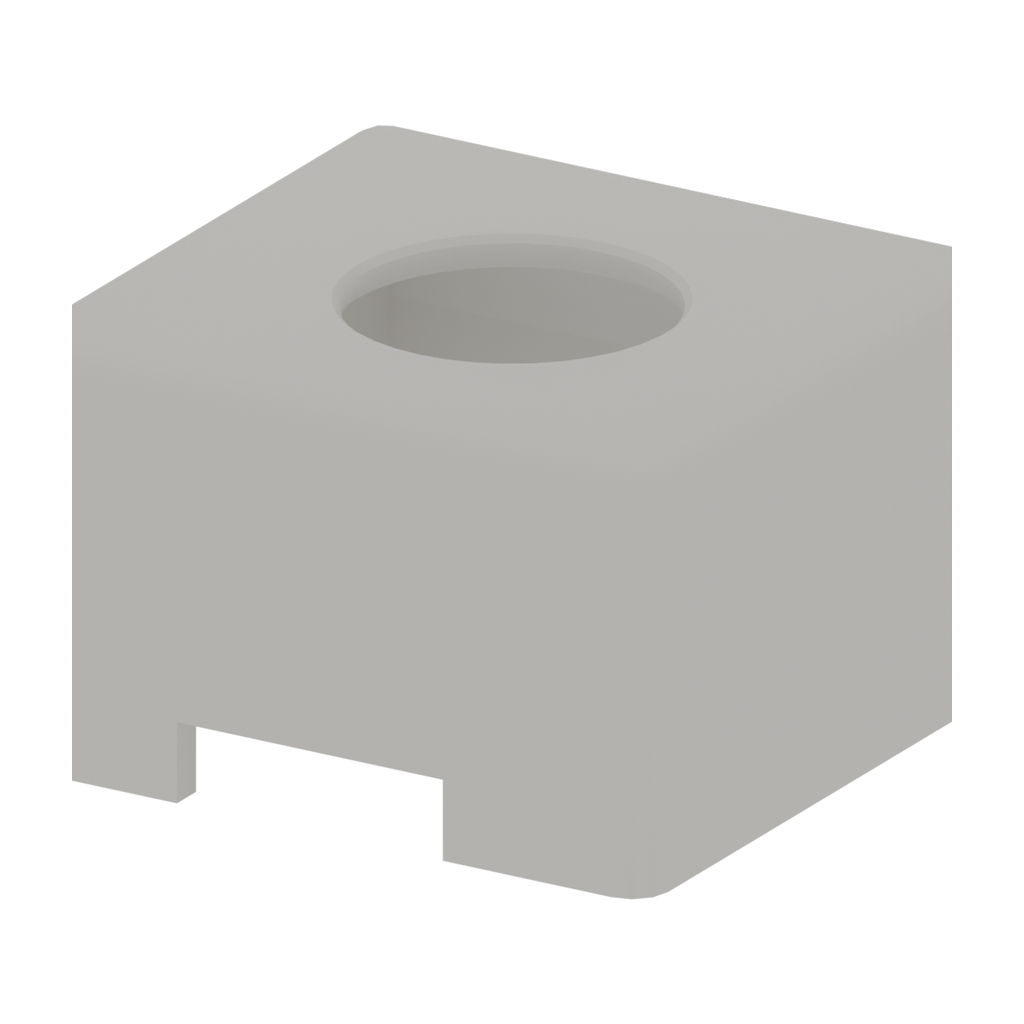
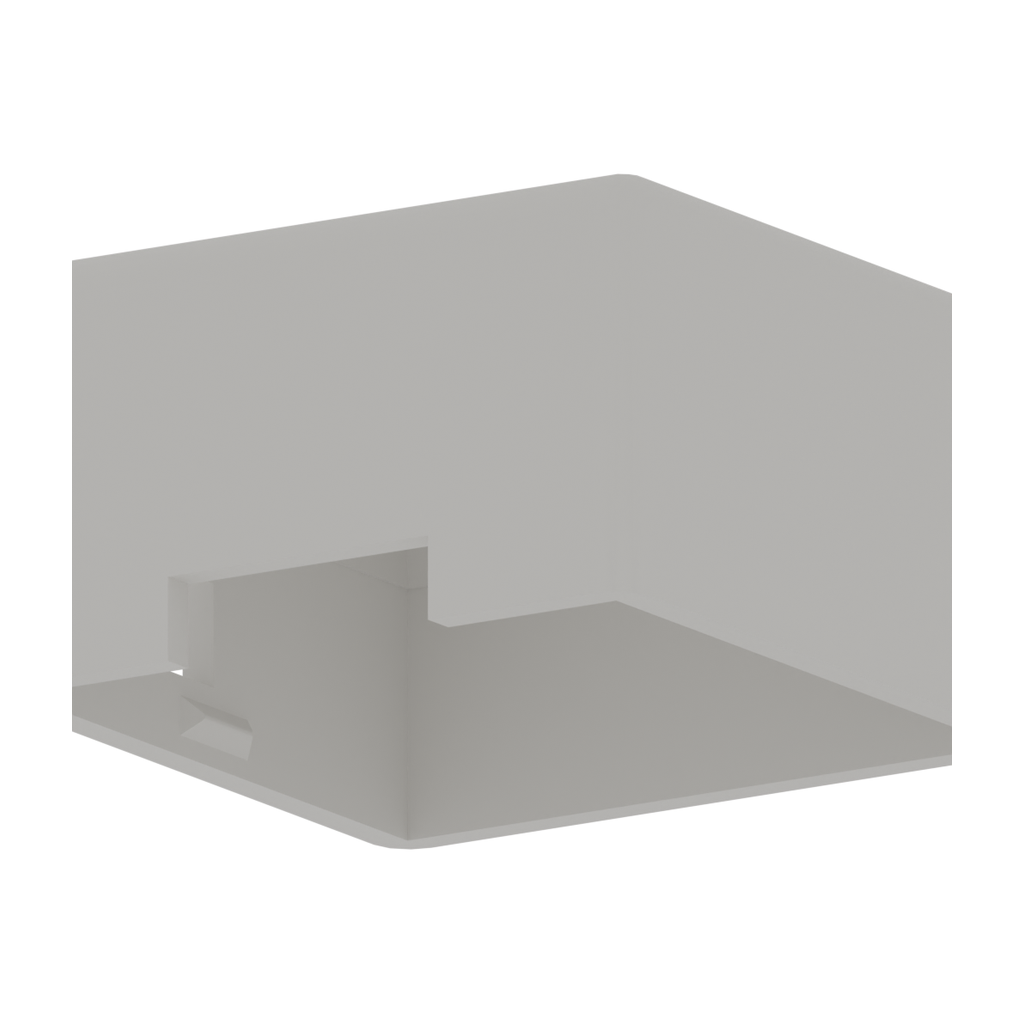
柔性夹爪 STL 汇总包补入第二个连杆（该零件需要 2 件）
- flexible-gripper-stl-2026-10-23.zip 6 -> 7 条目：新增 flexible-gripper-link-2.stl，与 flexible-gripper-link.stl 逐字节相同（同名条目解压会互相覆盖，故按 -2 命名）
- README 资源行标注「6 个打印件，共 7 个文件；连杆需要 2 件」

diff --git a/hardware/flexible-gripper/README.md b/hardware/flexible-gripper/README.md
@@ -15,7 +15,7 @@
 | --- | --- | --- |
 | [Assembly guide](../../docs/diy-assembly/README.md#flexible-gripper-assembly) | Assembly and installation video | ✅ Video available |
 | [step/](step/) | Part models in parts/; assemblies in assembly/ | ✅ 6 part models and 1 assembly available |
-| [stl/](stl/) | [Download all STL files (6 parts)](stl/downloads/flexible-gripper-stl-2026-10-23.zip?raw=true) · [Browse individual STL files](stl/) | ✅ Available |
+| [stl/](stl/) | [Download all STL files (6 parts, 7 files - the link is needed twice)](stl/downloads/flexible-gripper-stl-2026-10-23.zip?raw=true) · [Browse individual STL files](stl/) | ✅ Available |
 | [drawings/](drawings/) | PDF / DWG drawings | — To be added |
 | [robot-description/](robot-description/) | URDF and meshes | — To be added |
 

diff --git a/hardware/flexible-gripper/README.zh.md b/hardware/flexible-gripper/README.zh.md
@@ -15,7 +15,7 @@
 | --- | --- | --- |
 | [装配指南](../../docs/diy-assembly/README.zh.md#flexible-gripper-assembly) | 装配与安装视频 | ✅ 视频已提供 |
 | [step/](step/) | parts/ 零件模型；assembly/ 装配模型 | ✅ 已提供 6 个零件模型及 1 个装配模型 |
-| [stl/](stl/) | [下载整套 STL（6 个打印件）](stl/downloads/flexible-gripper-stl-2026-10-23.zip?raw=true) · [浏览单个 STL](stl/) | ✅ 已提供 |
+| [stl/](stl/) | [下载整套 STL（6 个打印件，共 7 个文件；连杆需要 2 件）](stl/downloads/flexible-gripper-stl-2026-10-23.zip?raw=true) · [浏览单个 STL](stl/) | ✅ 已提供 |
 | [drawings/](drawings/) | PDF／DWG 图纸 | — 待提供 |
 | [robot-description/](robot-description/) | URDF 和网格 | — 待提供 |
 
